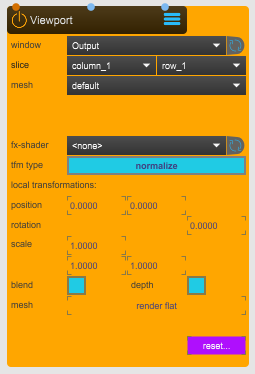
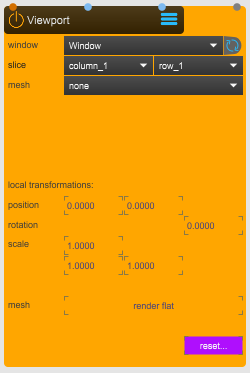
Some corrections

diff --git a/docs/start/tutorials/03_Spatial_Augmented_Reality/Spatial_Aumented_Reality.md b/docs/start/tutorials/03_Spatial_Augmented_Reality/Spatial_Aumented_Reality.md
@@ -18,45 +18,44 @@ Download the project files here: [SAR_Projection.zip](https://github.com/immersi
 ## SAR Setup with 4 Projectors
 Start by adding [SPARCK] to your Max patch. See the [Getting Started](https://immersive-arts.github.io/Sparck2_Documentation/start/tutorials/01_Getting_Started) documentation for more information.
 
-![SPARCK APP](images/image-8.png)<br>
+![SPARCK APP](images/SPARCK.png)<br>
 *SPARCK*
 
 The image below shows the Max subpatcher **p Workspace**, which contains all necessary SPARCK nodes for this configuration.
 
-![p Workspace subpatch](images/image-22-1024x678.png)<br>
+![p Workspace subpatch](images/SAR_setup.png)<br>
 *p Workspace subpatch*
 
 In white: a highly precise simplified 3D [Model] of the Immersive Arts Space.
 In black: a floor plane (using a [Canvas] node) with a [Grid] node.
 In colour: four wireframes representing calibrated projector positions.
+In the middle, in white: a traked moving wall.
 
-![3DViewer window](images/image-7-1024x593.png)<br>
-*3DViewer preview of the virtual setup*
+![3DViewer window](images/SAR_3DViewer_grid_model.png)<br>
+*3DViewer preview of the virtual setup. In this image the [Grid] and [Model] nodes are enabled*
 
 Four frames correspond to the calibrated view of each projector. Projectors are color‑coded via the **identify** toggle in the [Beamer] node.
 
-![Output preview](images/image-11-768x309.png)<br>
-*Output preview (4 columns, 1 row)*
+![Window desktop preview](images/window_desktop_preview_grid_model.png)<br>
+*Window in Desktop preview (4 columns, 1 row). In this image the [Grid] and [Model] nodes are enabled*
 
 ## Nodes Configuration
 The following sections explain how to correctly configure all nodes required for a Spatial Augmented Reality setup.
 
 
 ### Window Node
-> TODO: Rename images from *Output* to *Window* where necessary.
-
 The [Window] node outputs SPARCK’s rendered result to the projectors. It determines how content is distributed across the four projector outputs.
 
-![Window node](images/image-1.png)<br>
+![Window node](images/window.png)<br>
 *Window node — 1_UTILITY > WINDOW.maxpat*
 
 **position**: Switch between **Output** (content displayed on projectors) and **Desktop** (content preview).
 
 **columns and rows**: Defines how the [Window] is divided. Set **4 columns** and **1 row** for four projectors.
 
-**display**: Opens the display setup tool. Select the projector displays (orange), then click **Store and Close**.
+**display**: **settings...** Opens the display setup tool. Select the projector displays (orange), then click **Store and Close**.
 
-![Output setup](images/image-9-768x260.png)<br>
+![Window setup](images/image-9-768x260.png)<br>
 *Display selection interface*
 
 Example: The system has two monitors (1920×1200, greyed out) and four projectors (2560×1600, orange). Only the projectors are selected.
@@ -68,13 +67,13 @@ The [Beamer] node creates a virtual projector in SPARCK’s **3DViewer**. It is 
 ![Beamer node](images/image-3.png)<br>
 *Beamer — 2_SPACE > BEAMER.maxpat*
 
-**capture**: Select the render layer for each Beamer. Each Beamer must use a different small turquoise square.
+**capture**: Select the render layer for each Beamer. Each Beamer must use a different render layer (small turquoise square).
 
 **calibfile**: Saves calibration data to a `.xml` file.
 
 **calibrate**: Opens the calibration editor.
 
-**identify**: Displays a colour background in both **Output** and **Desktop** to identify the projector.
+**identify**: Displays a colour background in both [Window] **Output** and **Desktop** to identify the projector.
 
 **gizmo**: Shows the projector’s position in the **3DViewer**.
 
@@ -82,59 +81,69 @@ The [Beamer] node creates a virtual projector in SPARCK’s **3DViewer**. It is 
 ### Viewport Node
 This node creates a texture displayed in a designated slice of the [Window]. When connected to a [Beamer], it outputs that Beamer’s point of view.
 
-TODO: Replace image
-
-![Viewport](images/image-10.png)<br>
+![Viewport](images/viewport.png)<br>
 *Viewport — 1_UTILITY > VIEWPORT.maxpat*
 
-**window**: Select the [Window] node.
+**window**: Targets the [Window] node.
 
-**slice**: Assign each Viewport to a unique slice: **column 1–4**, all using **row 1**.
+**slice**: Assign each [Viewport] to an unique slice: **column 1–4**, all using **row 1**.
 
 
 ### Model Node
-The [Model] node displays a simplified but accurate model of the Immersive Arts Space, helping visualize the positions of projectors, the floor plane, and tracked objects.
+The [Model] node displays a simplified but accurate model of the Immersive Arts Space, helping visualize the positions of projectors, the floor plane, and tracked objects. It is deabled (grayed out) since is not an essential node. 
 
-![Model](images/image-20.png)<br>
-*Model — 2_SPACE > MODEL.maxpat*
+![Model](images/model_node_collapsed.png)<br>
+*Model node collapsed — 2_SPACE > MODEL.maxpat*
 
-**drawto**: Selects the render layer (large turquoise square). Here, the Model appears only in the **3DViewer**.
+**drawto**: Selects the render layer. Here, the [Model] appears only in the **3DViewer** (large turquoise square).
 
 **meshfile**: Loads a 3D model from `Sparck/_assets/_models`. Ensure polygon count is reasonable for performance.
 
+![Model preview](images/3DViewer_model_canvas.png)
+*IAS [Model] and floor [Canvas] preview*
 
 ### Grid Node
-The [Grid] node displays a grid useful for verifying projector calibration. If grid lines overlap sharply across projections, calibration is correct; doubled or misaligned lines indicate mismatch.
+The [Grid]{ data-preview } node is a helper tool used to display a reference grid in SPARCK. It is disabled here but can be enabled for checking projector calibration accuracy: if the grid lines from both projectors overlap cleanly, calibration is good; if they appear doubled or misaligned, calibration needs adjustment. See [Calibration](../02_Calibration/calibration.md) for more information.
 
-![Grid](images/image-14.png)<br>
-*Grid — 2_SPACE > GRID.maxpat*
+![Grid](images/grid_node.png)<br>
+*Grid node — 2_SPACE > GRID.maxpat*
 
-**drawto**: Shows the grid in the **3DViewer**. It can also be shown through projectors by enabling small squares.
+**drawto**: If enabled (large turquoise square), selects the render layer where the grid is shown. In this setup, it is visible only in the **3DViewer**, but it can also be shown through the [Beamer] outputs if needed, especially to check calibration accuracy. See [Calibration](../02_Calibration/calibration.md) for more information.
 
-**scale**: Here set to the IAS floor size: 6m × 12m.
+**scale**: 1 SPARCK unit equal to 1 meter (100cm). In this case it maches the IAS floor plan (6m whide and 12m long).
 
 **render gridsize**: Adjusts subdivision size.
 
-**showaxis**: Enables or disables axis display.
+**showaxis**: Enables or disables [Grid] axis display.
 
+![Grid](images/grid_axis.png)<br>
+*Grid axis diplay*
 
 ### SpatialShadery Node
 The [SpatialShadery] node is at the core of Spatial Augmented Reality. It computes per‑projector pixel visibility and brightness, producing soft‑edge blending across all projectors.
 
-![SpatialShadery](images/image-21.png)<br>
-*SpatialShadery — 7_EFFECTS > SPATIAL.SHADERY.maxpat*
+![SpatialShadery](images/spatialShadery.png)<br>
+*SpatialShadery node — 7_EFFECTS > SPATIAL.SHADERY.maxpat*
 
-**shader**: Use **edge & blend** for soft‑edge merging.
+**shader**: Use **edge & blend** for soft‑edge blending.
 
 **project to**: Set to **baked textures**.
 
 **Beamer A–D**: Assign each [Beamer].
 
-**projection**: Use **front side**.
+**projection**: Use **both siedes**.
 
 **spread**: Controls the distribution of pixel blending between overlapping projections. 0 = no spread, 1 = full spread. Typical value: **0.54**.
 
+**distance**: Controls the distance as an additional differentiator. It will show its influence when the spread is increased. 0 = no distance, 1 = full distance. Find a good balance that fit your situation.
+
 **output**: Set to **result** to display final blended output.
+
+![SpatialShadery mask](images/spatialShadery_mask.png)<br>
+*SpatialShadery with output set to **mask**, displaying the [Beamer]s weights. It essently showcases how the per‑projector pixels are computed for the final **result***
+
+![Window Desktot SpatialShadery mask](images/window_desktop_spatialShadery_mask.png)<br>
+*SpatialShadery with output set to **mask**, displaying the [Beamer]s weights, previewed from the [Window] **Desktop***
 
 **power**: Controls the soft-edge blending power. Find a good balance that fit your situation.
 
@@ -144,7 +153,7 @@ The [SpatialShadery] node is at the core of Spatial Augmented Reality. It comput
 ### OptiTrack Node
 The [OptiTrack] node receives rigidbody motion capture data from **NatNet2OSC**. It distributes this positional data inside SPARCK so virtual models and shapes can follow physical tracked objects.
 
-![OptiTrack](images/image-16.png)<br>
+![OptiTrack](images/optiTrack_node.png)<br>
 *OptiTrack — 4_TRANSFORM > OT.RECEIVER.maxpat*
 
 **stream 1–8**: Select a rigidbody from Motive. Ensure unique names/IDs.

diff --git a/docs/start/tutorials/01_Getting_Started/Getting_Started.md b/docs/start/tutorials/01_Getting_Started/Getting_Started.md
@@ -1,22 +1,22 @@
 # Getting Started
 This tutorial shows how to begin any type of project with SPARCK.
 
-Before starting, make sure you have Max and the SPARCK packages installed. For more information, check the [Setup](../../setup/index.md) page page.
+Before starting, make sure you have Max and the SPARCK packages installed. For more information, check the [Setup](../../setup/index.md) page.
 
-1. Create a new Max patch. File > New Patcher.
+1. Create a new Max patch **File > New Patcher**.
 
 2. In the patcher, right-click and choose **Paste From > Sparck2 > 0_CORE > CORE.maxpat**.
-![Insert Sparck app](../../../assets/images/core/ContextMenuSelectNodes.png)
+![Insert SPARCK app](../../../assets/images/core/ContextMenuSelectNodes.png)
 1. Save the patch (e.g., *Calibration.maxpat*) using **Save As...** into a dedicated folder. Max will prompt you to save a `preferences.json` file—save that as well.
 2. Close the patch.
 3. Open it again, this will create additional folders and subfolders—such as `_settings`, `_assets`, `_tmp`, and `_export`—in the same location as your `.maxpat` file.
-![Sparck Explorer Folder](images/6_ExplorerFolder.png)
+![SPARCK Explorer Folder](images/6_ExplorerFolder.png)
 
-If everything is correctly installed and configured, the SPARCK App should look like the image below. Set the **Frame Rate** to your preferred value.
+If everything is correctly installed and configured, the SPARCK should look like the image below. Set the **Frame Rate** to your preferred value.
 
-![Configured Sparck App](images/7_SparckAppConfigured.png)
+![Configured SPARCK App](images/7_SparckAppConfigured.png)
 
-Open the **p Workspace** Max node by double-clicking it. Make sure the patch is locked—if it is still in Edit mode, lock it using **Ctrl + Right‑Click**. Inside the Workspace, add all nodes required for your setup.
+Open the **p Workspace** Max node by double-clicking it. Make sure the patch is locked—if it is still in **Edit** mode, lock it using **Ctrl + Right‑Click** (or click the lock symbol at the bottom left corner of Max). Inside the **p Workspace**, add all SPARCK nodes required for your setup.
 
-See the [Tutorials](../index.md) page for examples of SPARCK configurations, such as floor or wall projection setups.
+See the [Tutorials](../index.md) page for examples of SPARCK configurations, such as floor or wall projection setups and others.
 

diff --git a/docs/start/tutorials/index.md b/docs/start/tutorials/index.md
@@ -2,7 +2,7 @@
 This collection of tutorials provides a practical entry point into working with SPARCK. Each guide focuses on key aspects of the workflow — from initial setup and calibration to creating spatial augmented reality scenes and projection-based installations.
 
 - [Getting Started](01_Getting_Started/Getting_Started.md) shows how to begin any SPARCK project, including how to add the SPARCK App inside a Max patch.<br>
-- [Calibration](02_Calibration/calibration.md) explains how to calibrate four projectors for a Spatial Augmented Reality setup.<br>
+- [Calibration](02_Calibration/calibration.md) explains how to calibrate a projector.<br>
 - [Wall Projection](04_Wall_Projection/Wall_Projection.md) shows how to set up a wall projection using a single projector.<br>
 - [Floor Projection](05_Floor_Projection/Floor_Projection.md) shows how to set up a floor projection using two projectors.
 - [Spatial Augmented Reality](03_Spatial_Augmented_Reality/Spatial_Aumented_Reality.md) demonstrates how to create a SPARCK project for Spatial Augmented Reality, in which tracked moving objects are dynamically projected onto.<br>
